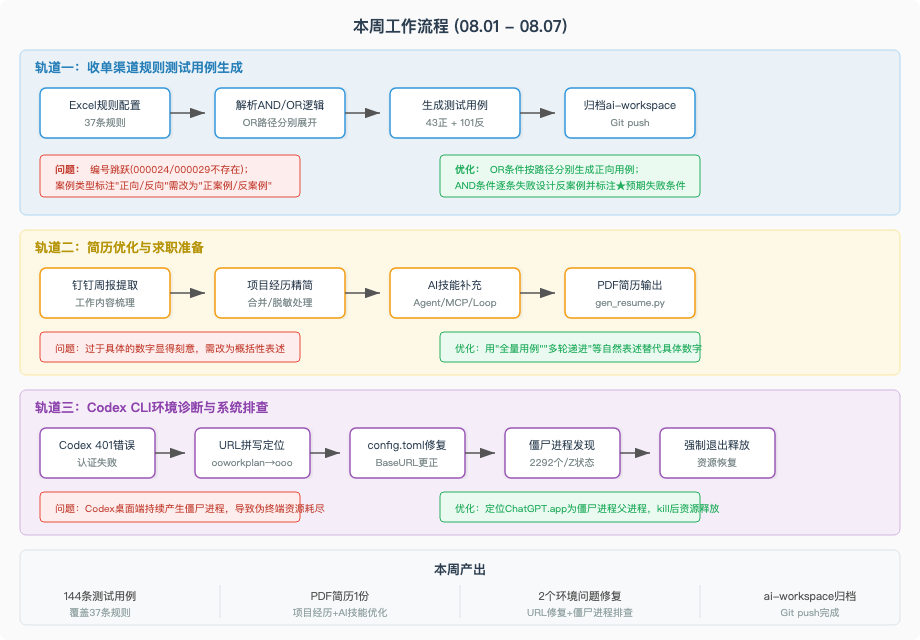
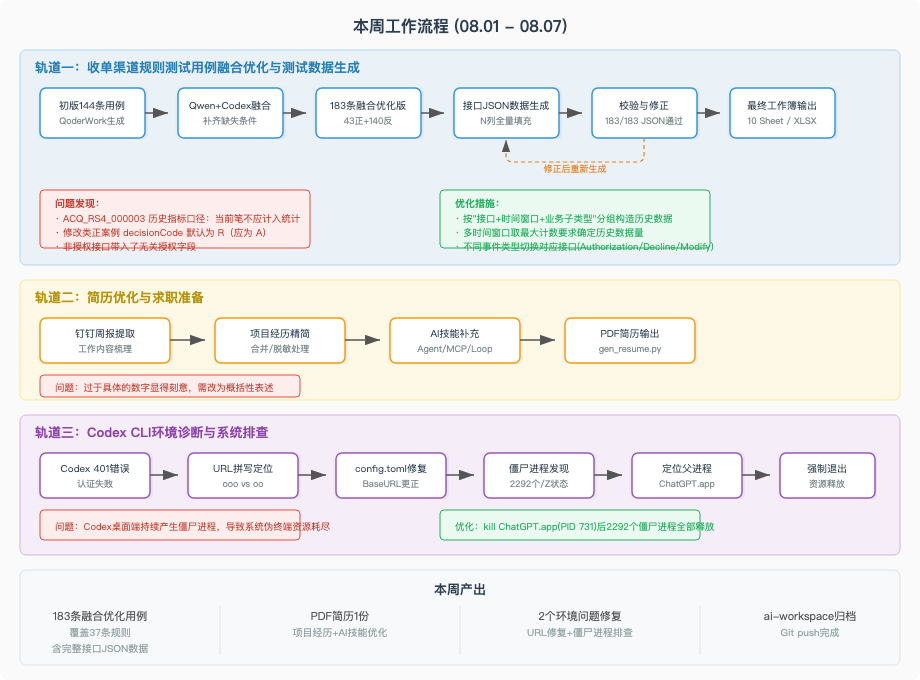
[2026-08-05] 日常 - 更新周报 08.01-08.07（融合优化版用例+测试数据生成）

diff --git a/日常/2026-08-01-08-07/周报.md b/日常/2026-08-01-08-07/周报.md
@@ -1,29 +1,29 @@
 # 26年：08.01-08.07
 
-本周工作以规则测试用例生成和开发工具环境排查为主。收单渠道异常商户规则集完成全量用例生成，同时梳理了个人简历和求职信息；Codex CLI环境配置问题得到定位和修复。
+本周工作围绕收单渠道规则测试用例的多版本融合与测试数据生成展开，同时处理了开发环境排查和个人事务。测试用例从初版144条扩展到融合优化版183条，并完成了全量接口JSON测试数据的构造与校验。
 
 ![本周工作流程图](workflow.png)
 
 ## 一、本周进展
 
-🚀 **收单渠道规则测试用例批量生成**：基于收单渠道规则配置Excel，使用risk-rule-testcase skill完成Acq Merchant Abnormal Business规则集的测试用例生成。37条规则共输出144个测试用例（43正案例+101反案例），覆盖TAG_001~004商户信息修改类和000001~000035交易风险类。含OR条件的规则按每条OR路径分别生成正向用例，反案例按每个AND条件单独失败设计，已归档至ai-workspace仓库。
+🚀 **收单渠道规则测试用例融合优化与测试数据生成**：以Qwen版业务数据构造为基础，补齐Codex版覆盖的缺失条件，完成Acq Merchant Abnormal Business规则集的融合优化版用例。37条规则共输出183条测试用例（43正案例+140反案例），重写ACQ_RS4_000003、000004、000007、000022的关联指标和OR逻辑，修正当前笔是否计入、比例分母和共享指标口径，清除VALID_VALUE/OTHER_VALUE等占位内容。在此基础上完成全量N列测试数据生成：183条JSON全部通过解析校验，164条包含历史数据（最大批次600条），19条无需历史数据。过程中修正了ACQ_RS4_000003的历史指标口径（当前笔不计入统计），按"接口+时间窗口+业务子类型"分组构造历史数据，确保多时间窗口场景下指标累计值可达。
 
 💡 **个人简历优化与求职信息整理**：从历史钉钉周报和对话记录中提取工作内容，迭代优化简历项目经历描述。保后检查与保前集中度两个策略的描述做了精简调整，项目经历合并为智慧水务系统一段，AI技能部分补充了多Agent协作、MCP协议、Prompt工程、Agent Loop编排等能力项。同步整理了求职基本信息和薪资期望。
 
-🔥 **Codex CLI环境诊断与系统资源排查**：排查Codex CLI 401认证错误，定位为API BaseURL拼写错误（ooworkplan→oooworkplan），修复后认证恢复正常。进一步发现Codex桌面端产生大量僵尸进程（约2292个）导致系统伪终端资源耗尽，所有终端和沙箱命令均无法执行，最终定位到根因并建议强制退出Codex进程释放资源。
+🔥 **Codex CLI环境诊断与系统资源排查**：排查Codex CLI 401认证错误，定位为API BaseURL拼写错误（ooworkplan→oooworkplan），修复后认证恢复正常。进一步发现Codex桌面端产生大量僵尸进程（约2292个）导致系统伪终端资源耗尽，定位到ChatGPT.app为僵尸进程父进程后强制退出释放资源。
 
 ## 二、当前判断
 
-本周工作偏向工具链完善和日常事务处理，策略测试主线暂无大规模推进。收单渠道规则用例的生成流程已跑通，skill在OR条件分支处理和案例类型标注方面的细节得到了实战验证。简历和求职信息的整理基本完成，后续需要根据目标岗位进一步针对性调整。
+收单渠道测试用例经历了"初版生成→多版本融合→测试数据构造"三轮迭代，从144条扩展到183条并附带完整的接口JSON数据，用例质量和可执行性有了明显提升。过程中暴露了几个共性问题——历史指标是否计入当前笔的口径判断、多时间窗口下历史数据量的确定、不同事件类型对应不同接口地址——这些经验可以沉淀到risk-rule-testcase skill中，提升后续用例生成的准确度。
 
 ## 三、当前关注点
 
-- 收单渠道规则用例的实际执行验证，需对接天策平台提交测试
-- 持续关注Codex桌面端的资源占用情况，避免僵尸进程再次影响开发环境
-- 简历投递和面试准备
+- 收单渠道融合版用例的实际执行验证，需对接天策平台提交测试
+- 将历史指标口径、接口字段映射等经验沉淀到skill中
+- 持续关注Codex桌面端的资源占用情况
 
 ## 四、下周计划
 
 - 将收单渠道测试用例提交天策平台执行，收集测试结果
+- 整理测试数据生成器的通用逻辑，补充到risk-rule-testcase skill
 - 继续完善简历，针对不同岗位方向做差异化调整
-- 探索更多AI Agent相关的技术方向和实践机会
